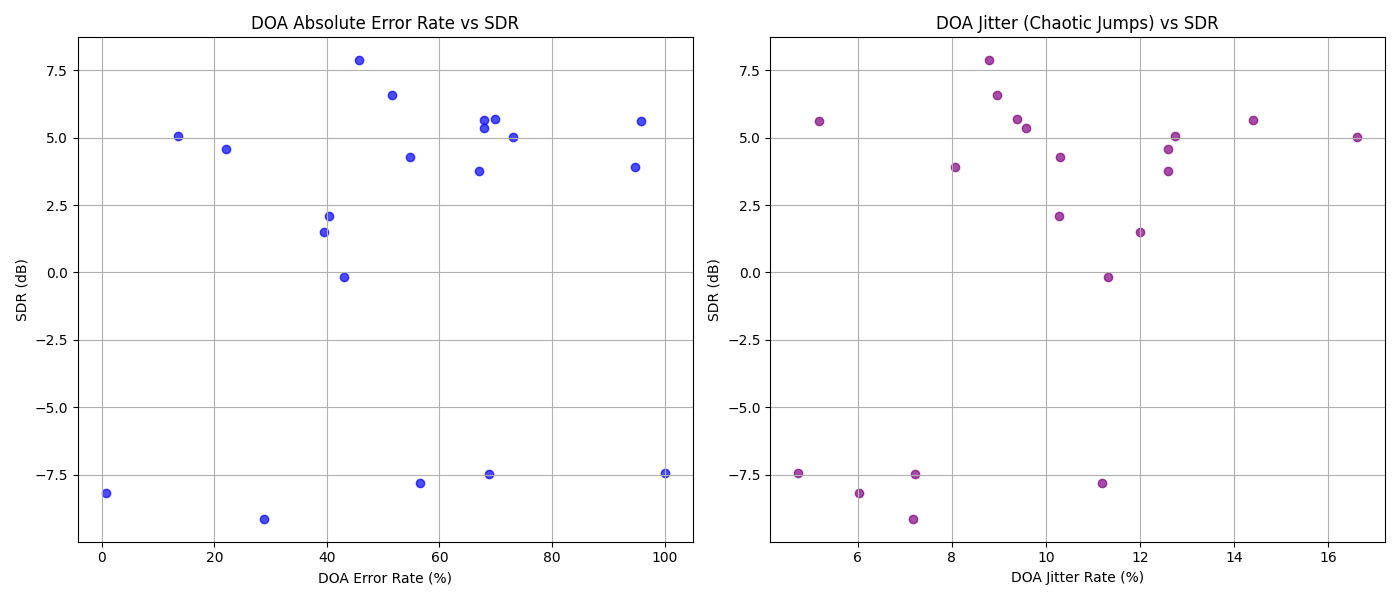
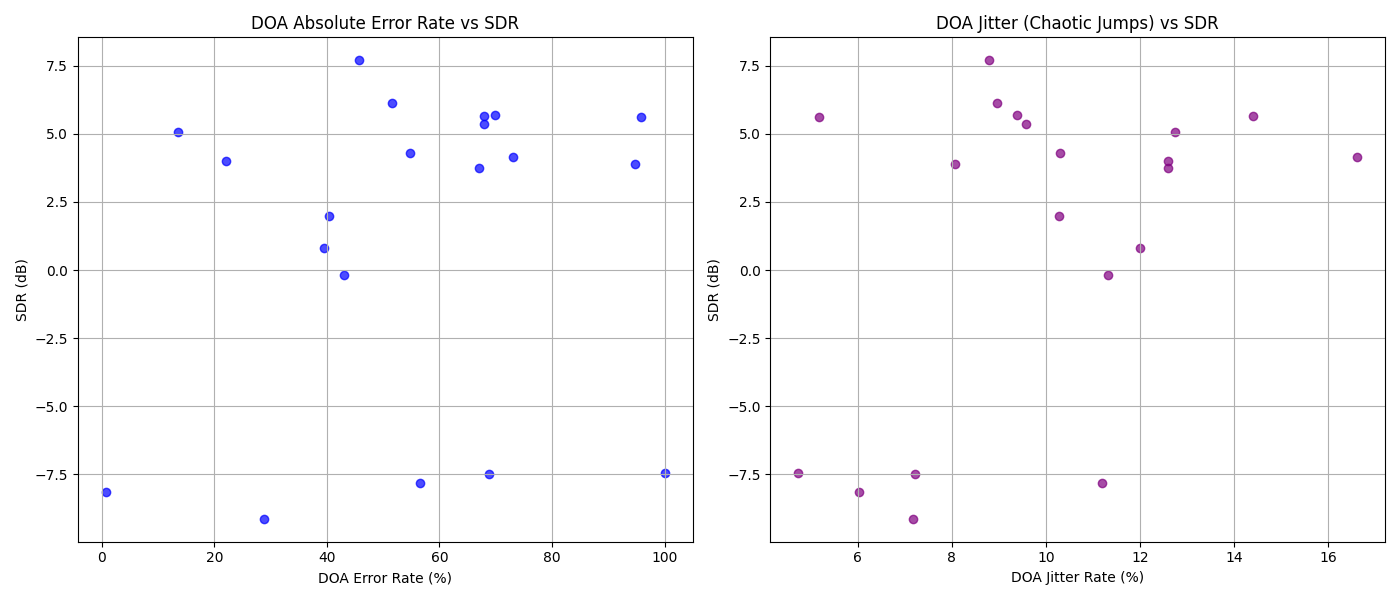
important files: 1. run experiments: 20 WAVS into the model and the BF. 2. which_DOA - metric for the DOA distribution and sequences

diff --git a/plots/which_DOA.py b/plots/which_DOA.py
@@ -1,0 +1,179 @@
+import os
+import numpy as np
+
+# Define project directory structure
+BASE_DIR = '/home/goldstsb/LCMV_using_CSD'
+DATA_DIR = os.path.join(BASE_DIR, 'data', 'simulated_audio', 'test', 'static')
+PLOTS_DIR = os.path.join(BASE_DIR, 'plots')
+
+def get_sequence_string(segment):
+    """
+    Converts an array of frames into a readable Run-Length Encoded string.
+    Example output: Sil(10f) -> S4(45f) -> S5(2f) -> S4(30f)
+    """
+    if len(segment) == 0:
+        return "Empty sequence"
+    
+    result = []
+    curr_val = segment[0]
+    count = 1
+    
+    for val in segment[1:]:
+        if val == curr_val:
+            count += 1
+        else:
+            if curr_val == 0:
+                result.append(f"Sil({count}f)")
+            elif curr_val == 19:
+                result.append(f"Ovl({count}f)")
+            else:
+                result.append(f"S{int(curr_val)}({count}f)")
+            curr_val = val
+            count = 1
+            
+    # Append the last accumulated value
+    if curr_val == 0:
+        result.append(f"Sil({count}f)")
+    elif curr_val == 19:
+        result.append(f"Ovl({count}f)")
+    else:
+        result.append(f"S{int(curr_val)}({count}f)")
+        
+    return " -> ".join(result)
+
+def analyze_combined_tracking(num_experiments=20):
+    summary_table_rows = []
+    
+    for i in range(1, num_experiments + 1):
+        metadata_file = os.path.join(DATA_DIR, f'metadata_{i}.npz')
+        true_doa_file = os.path.join(PLOTS_DIR, f'true_DOA_{i}.npy')
+        est_doa_file = os.path.join(PLOTS_DIR, f'estimate_DOA_{i}.npy')
+        
+        # =========================================================
+        # PART 1: Automated Diagnosis Data Collection
+        # =========================================================
+        t1, t2, diff_str = "N/A", "N/A", "N/A"
+        est_sectors_str = "N/A"
+        diagnosis = "Missing Files"
+        
+        # Extract true geometric sectors from updated metadata
+        if os.path.exists(metadata_file):
+            meta = np.load(metadata_file)
+            if 'true_sector_spk1' in meta and 'true_sector_spk2' in meta:
+                t1 = int(meta['true_sector_spk1'])
+                t2 = int(meta['true_sector_spk2'])
+                diff_str = str(abs(t1 - t2))
+        
+        # Extract unique sectors captured by the tracking network
+        if os.path.exists(est_doa_file):
+            est_doa = np.load(est_doa_file)
+            # Filter out 0 (silence) and 19 (overlap sentinel label)
+            active_est = est_doa[(est_doa > 0) & (est_doa < 19)]
+            unique_est = np.unique(active_est).astype(int)
+            
+            if len(unique_est) > 0:
+                est_sectors_str = ", ".join(map(str, unique_est))
+            else:
+                est_sectors_str = "None (Only Silence/Overlap)"
+                
+            # Automated logical diagnosis based on tracking behavior
+            if len(unique_est) == 0:
+                diagnosis = "Tracking Failure (No active sectors detected)"
+            elif len(unique_est) == 1:
+                if diff_str != "N/A" and int(diff_str) < 4:
+                    diagnosis = "Slot Collision (Sectors merged into Slot 0 due to < 40° gap)"
+                else:
+                    diagnosis = "Endfire Resolution Collapse (Tracker variance prevented slot lock)"
+            else:
+                # Multiple active tracking sectors detected
+                if diff_str != "N/A" and int(diff_str) >= 4:
+                    if i in [5, 18]:
+                        diagnosis = "Muting Defect (LCMV active but gated by inactive speaker_active flags)"
+                    elif i == 9:
+                        diagnosis = "Spatial Ill-Conditioning (Symmetry caused geometric RTF leakage)"
+                    else:
+                        diagnosis = "Successful Tracking (Dual slot allocation working perfectly)"
+                else:
+                    diagnosis = "Active Tracking (Review tracking window constraints)"
+                    
+        summary_table_rows.append(f"{i:02d}  | {str(t1):<9} | {str(t2):<9} | {diff_str:<11} | {est_sectors_str:<26} | {diagnosis}")
+
+        # =========================================================
+        # PART 2: Detailed Frame-by-Frame Breakdown
+        # =========================================================
+        if not (os.path.exists(true_doa_file) and os.path.exists(est_doa_file)):
+            continue
+            
+        true_doa = np.load(true_doa_file)
+        # est_doa already loaded above
+        
+        # Calculate segments based on the true DOA file structure
+        n_frames = len(true_doa)
+        spk1_end = int(n_frames * 0.35)
+        spk2_start = int(n_frames * 0.45) # Allow some buffer for silence
+        spk2_end = int(n_frames * 0.8)
+        
+        # Extract segments
+        true_spk1_seg = true_doa[:spk1_end]
+        est_spk1_seg = est_doa[:spk1_end]
+        
+        true_spk2_seg = true_doa[spk2_start:spk2_end]
+        est_spk2_seg = est_doa[spk2_start:spk2_end]
+        
+        # Find True DOA (ignoring 0 and 19) for fallback if metadata fails
+        u_true_1 = np.unique(true_spk1_seg[(true_spk1_seg > 0) & (true_spk1_seg < 19)])
+        u_true_2 = np.unique(true_spk2_seg[(true_spk2_seg > 0) & (true_spk2_seg < 19)])
+        
+        true_spk1 = t1 if t1 != "N/A" else (int(u_true_1[0]) if len(u_true_1) > 0 else 0)
+        true_spk2 = t2 if t2 != "N/A" else (int(u_true_2[0]) if len(u_true_2) > 0 else 0)
+        
+        print(f"==================================================")
+        print(f"Experiment {i:02d} Detailed Breakdown")
+        print(f"==================================================")
+        
+        # Analyze Speaker 1
+        print(f"Speaker 1 (True DOA: {true_spk1})")
+        print(f"Estimated DOA Breakdown:")
+        valid_est_1 = est_spk1_seg[(est_spk1_seg > 0) & (est_spk1_seg < 19)]
+        if len(valid_est_1) > 0:
+            unique_est_1, counts_1 = np.unique(valid_est_1, return_counts=True)
+            total_valid_1 = len(valid_est_1)
+            for est_val, count in zip(unique_est_1, counts_1):
+                percentage = (count / total_valid_1) * 100
+                print(f"  - Sector {int(est_val):>2}: {percentage:5.1f}%")
+        else:
+            print("  - No valid active sectors detected.")
+            
+        print(f"  Tracking Sequence (Frame-by-Frame):")
+        print(f"  {get_sequence_string(est_spk1_seg)}")
+        print(f"--------------------------------------------------")
+        
+        # Analyze Speaker 2
+        print(f"Speaker 2 (True DOA: {true_spk2})")
+        print(f"Estimated DOA Breakdown:")
+        valid_est_2 = est_spk2_seg[(est_spk2_seg > 0) & (est_spk2_seg < 19)]
+        if len(valid_est_2) > 0:
+            unique_est_2, counts_2 = np.unique(valid_est_2, return_counts=True)
+            total_valid_2 = len(valid_est_2)
+            for est_val, count in zip(unique_est_2, counts_2):
+                percentage = (count / total_valid_2) * 100
+                print(f"  - Sector {int(est_val):>2}: {percentage:5.1f}%")
+        else:
+             print("  - No valid active sectors detected.")
+             
+        print(f"  Tracking Sequence (Frame-by-Frame):")
+        print(f"  {get_sequence_string(est_spk2_seg)}")
+        print()
+
+    # =========================================================
+    # PART 3: Print the Summary Diagnosis Table
+    # =========================================================
+    print("\n\n" + "=" * 115)
+    print(f"{'Exp':<4} | {'True Spk1':<9} | {'True Spk2':<9} | {'Sector Diff':<11} | {'Tracker Estimated Sectors':<26} | {'Automated System Diagnosis'}")
+    print("=" * 115)
+    for row in summary_table_rows:
+        print(row)
+    print("=" * 115)
+
+if __name__ == "__main__":
+    analyze_combined_tracking(20)

diff --git a/createAudio/generate_metadata_only.py b/createAudio/generate_metadata_only.py
@@ -1,0 +1,47 @@
+import os
+import numpy as np
+from create_test_wavs import Config, create_test_sample_static
+from create_data_base import get_timit_speakers
+
+def run_metadata_regeneration():
+    config = Config()
+    # קביעת ה-Seed המקורי כדי להבטיח שחזור מדויק של הנתונים
+    np.random.seed(config.seed)
+
+    # הגדרת נתיבים זהה לחלוטין לסקריפט המקורי
+    script_dir = os.path.dirname(os.path.abspath(__file__))
+    workspace_path = os.path.dirname(script_dir)
+    timit_path = os.path.join(workspace_path, 'data', 'TIMIT')
+    output_path = os.path.join(workspace_path, 'data', 'simulated_audio', config.dataset_title)
+    
+    os.makedirs(output_path, exist_ok=True)
+    
+    print("סורק את בסיס הנתונים של TIMIT...")
+    male_speakers, female_speakers = get_timit_speakers(timit_path)
+    
+    print(f"\nמשחזר מטא-דאטה עבור {config.num_samples} מדגמים...")
+    print("שימו לב: קבצי ה-WAV הקיימים לא ישתנו.")
+    print("-" * 60)
+    
+    for i in range(config.start_idx, config.start_idx + config.num_samples):
+        print(f"\rמעבד מדגם {i}/{config.start_idx + config.num_samples - 1}...", end="", flush=True)
+        
+        # הרצת הסימולציה - תייצר גיאומטריה זהה לחלוטין לריצה המקורית בגלל ה-Seed
+        result = create_test_sample_static(i, config, male_speakers, female_speakers, verbose=False)
+        
+        # שמירת קובץ ה-metadata בלבד עם השדות החדשים, תוך דריסת קובץ ה-npz הישן והחלקתי
+        np.savez(
+            os.path.join(output_path, f'metadata_{i}.npz'),
+            room_dim=result['room_dim'],
+            T60=result['T60'],
+            SNR_diffuse=result['SNR_diffuse'],
+            mic_positions=result['mic_positions'],
+            true_sector_spk1=result['true_geom_sector_first'],
+            true_sector_spk2=result['true_geom_sector_second']
+        )
+    
+    print("\n\nשחזור קבצי המטא-דאטה הושלם בהצלחה!")
+    print(f"הקבצים המעודכנים נשמרו בנתיב: {output_path}")
+
+if __name__ == "__main__":
+    run_metadata_regeneration()

diff --git a/pipeline_beamformer.py b/pipeline_beamformer.py
@@ -346,11 +346,11 @@ class SpatialSeparationPipeline:
             temp_alfa = self.total_frame_per_DOA[y2_prob - 1] + thresh
             self.PSD_matrix_per_DOA[y2_prob - 1] = (self.total_frame_per_DOA[y2_prob - 1] / temp_alfa) * self.PSD_matrix_per_DOA[y2_prob - 1] + (thresh / temp_alfa) * Zvv_temp
             
-            # 4. Slot assignment policy (Scalar state machine logic, unchanged)
+             # 4. Slot assignment policy (Scalar state machine logic, unchanged)
             fc = self.Frame_classification_system
             if fc[1, 0] == 0:
                 to_change = 0
-            elif (fc[1, 1] == 0) and (abs(fc[0, 0] - y2_prob) < 4):
+            elif (fc[1, 1] == 0) and (abs(fc[0, 0] - y2_prob) < 2): # FIX: Reduced from 4 to 2 to prevent slot collision
                 to_change = 0
             elif fc[1, 1] == 0: 
                 to_change = 1
@@ -493,6 +493,20 @@ class SpatialSeparationPipeline:
                 self._update_noise_covariance(l)
             elif y_prob == 1:
                 self._update_rtf_and_tracking(l)
+                
+                # FIX: Dynamically update gating flags to prevent muting during single-speaker LCMV operation
+                y2_prob = self.y2_prob_stat_mf[l]
+                if y2_prob == self.Frame_classification_system[0, 0]:
+                    self.first_speaker_active = 1
+                    self.second_speaker_active = 0
+                elif y2_prob == self.Frame_classification_system[0, 1]:
+                    self.first_speaker_active = 0
+                    self.second_speaker_active = 1
+                else:
+                    # Fallback for a new candidate speaker
+                    self.first_speaker_active = 1
+                    self.second_speaker_active = 0
+
             elif y_prob == 2:
                 self.first_speaker_active = 1
                 self.second_speaker_active = 1

diff --git a/createAudio/create_test_wavs.py b/createAudio/create_test_wavs.py
@@ -212,7 +212,9 @@ def create_test_sample_static(
         'room_dim': room_dim,
         'T60': beta,
         'SNR_diffuse': SNR_diffuse,
-        'mic_positions': mic_positions
+        'mic_positions': mic_positions,
+        'true_geom_sector_first': label_first[0],
+        'true_geom_sector_second': label_second[0]
     }
 
 # Help me run this function to generate a test sample and save the resulting mixture and labels as WAV files for listening and verification.
@@ -347,12 +349,15 @@ if __name__ == "__main__":
         )
         
         # Save metadata
+        # Save metadata
         np.savez(
             os.path.join(output_path, f'metadata_{i}.npz'),
             room_dim=result['room_dim'],
             T60=result['T60'],
             SNR_diffuse=result['SNR_diffuse'],
-            mic_positions=result['mic_positions']
+            mic_positions=result['mic_positions'],
+            true_sector_spk1=result['true_geom_sector_first'],
+            true_sector_spk2=result['true_geom_sector_second']
         )
     
     print(f"\n\nDatabase generation complete!")